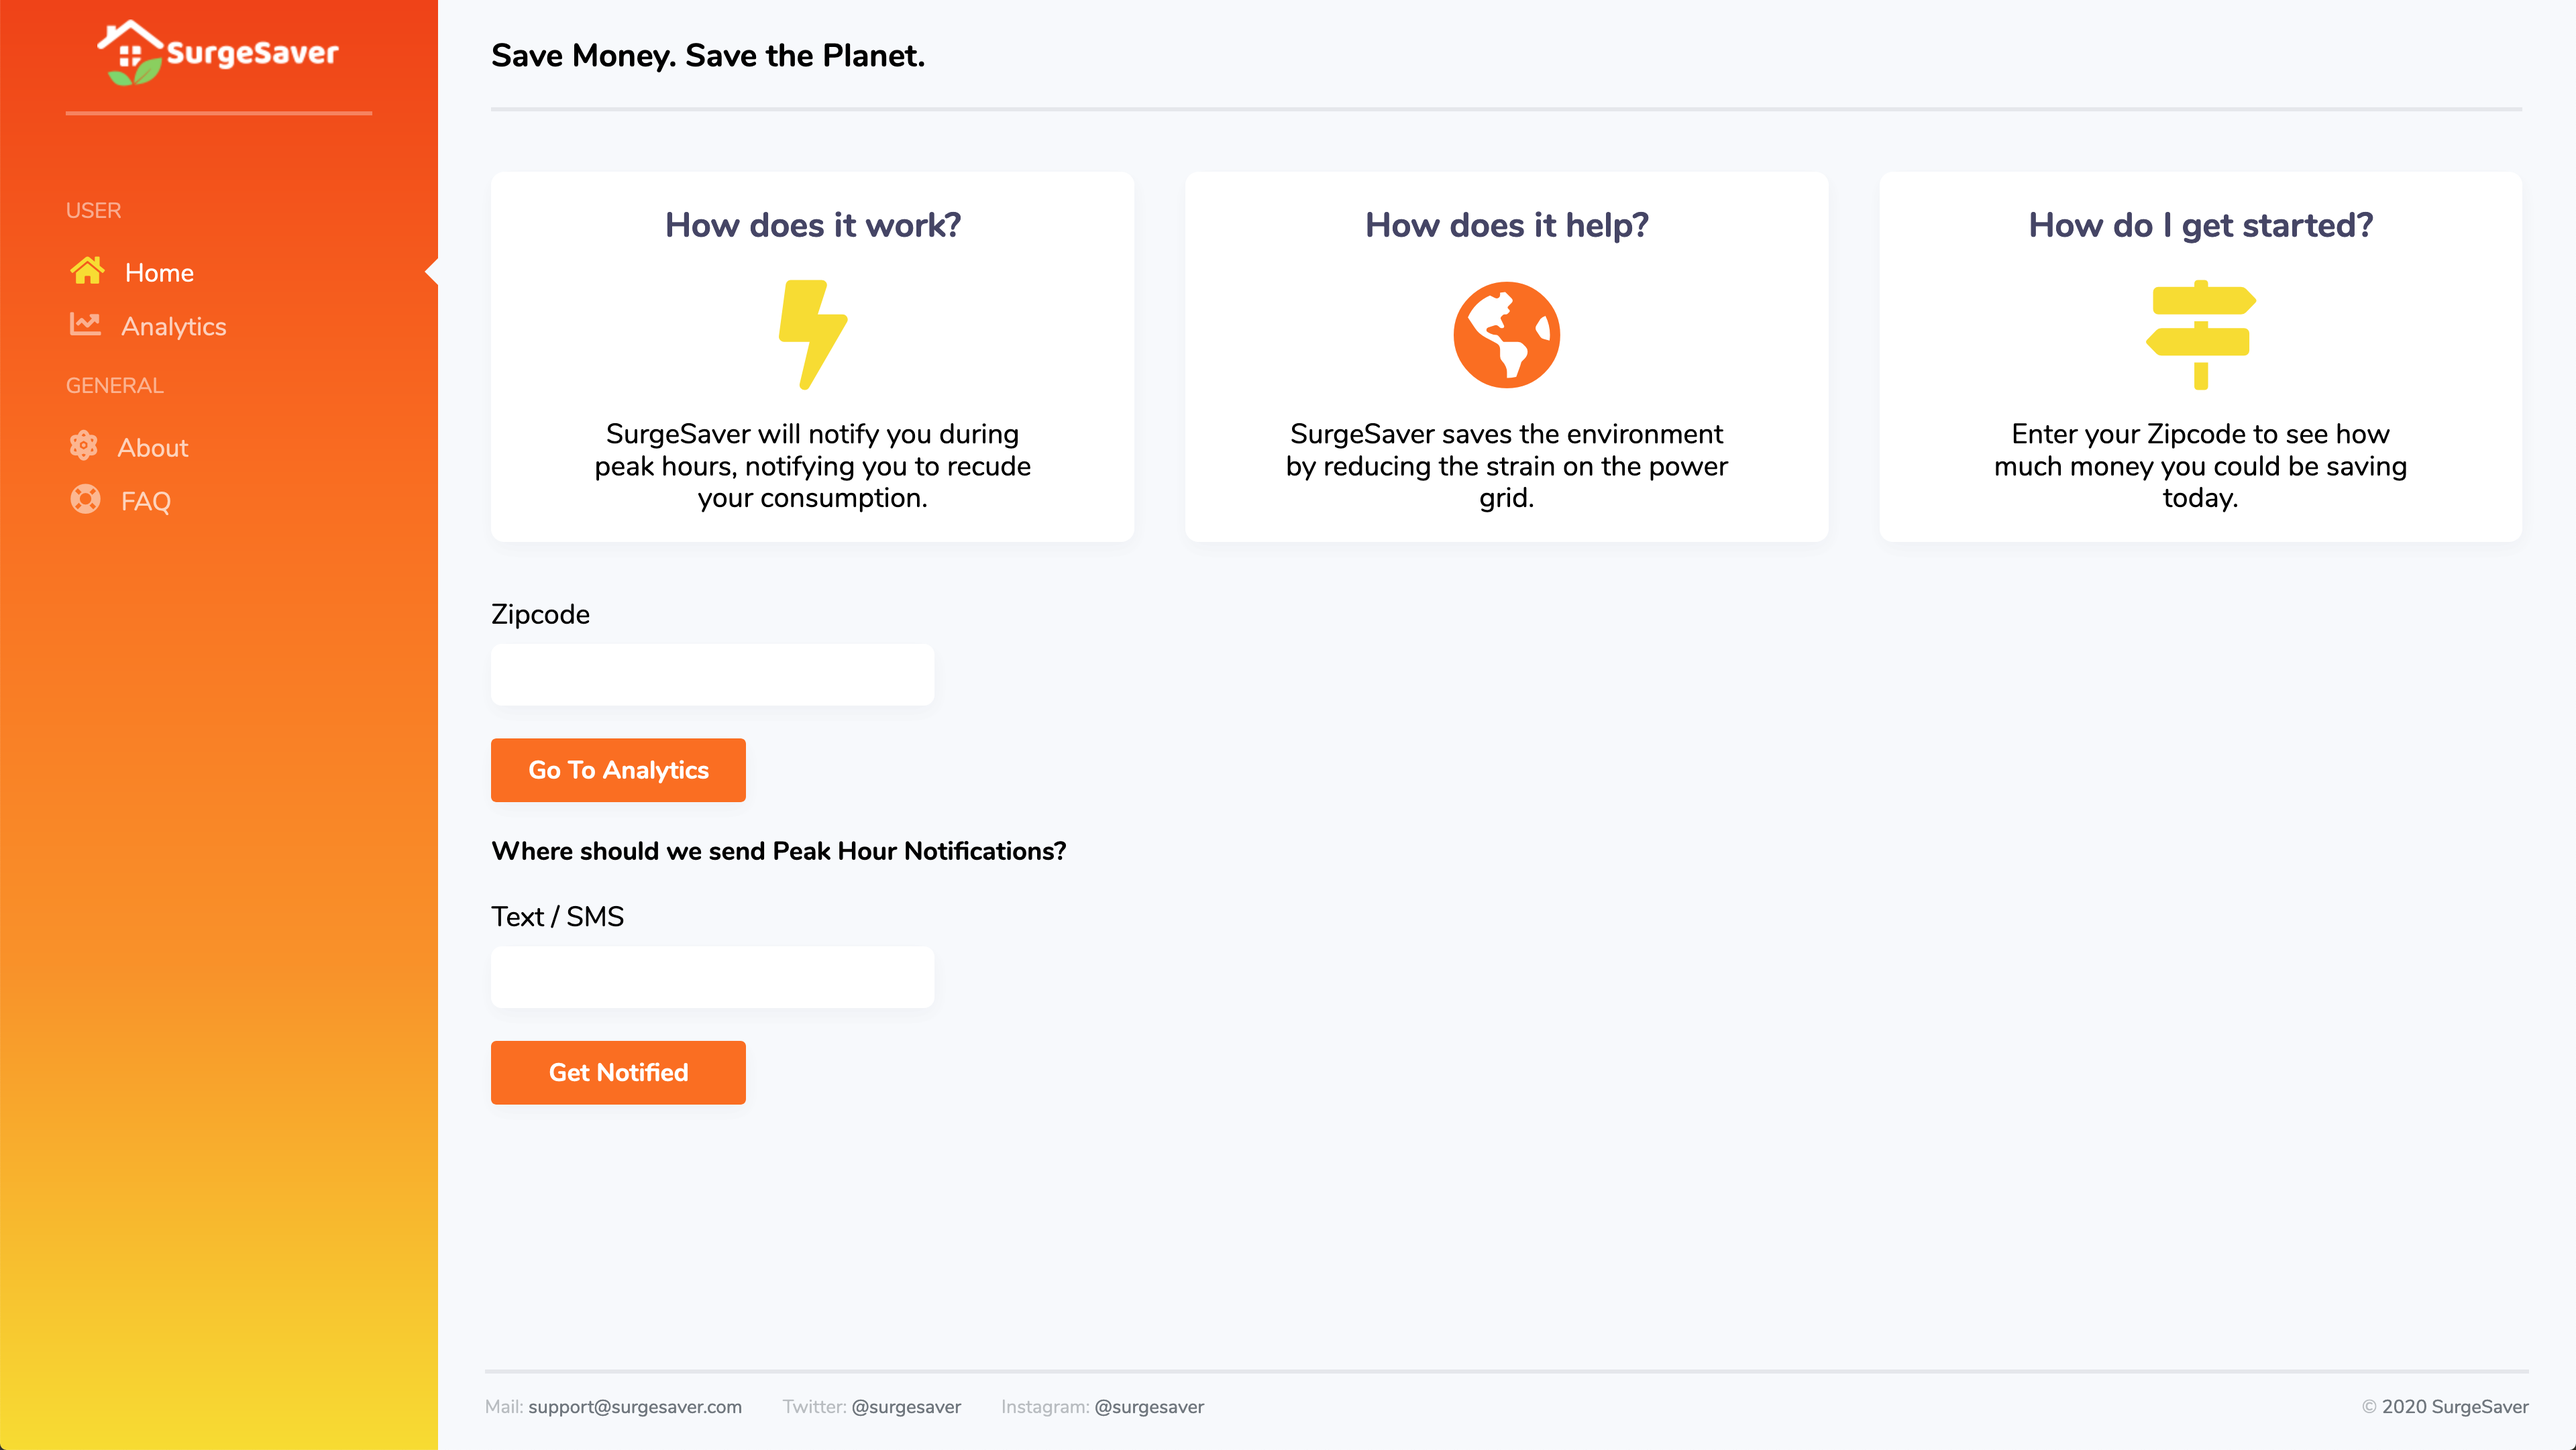
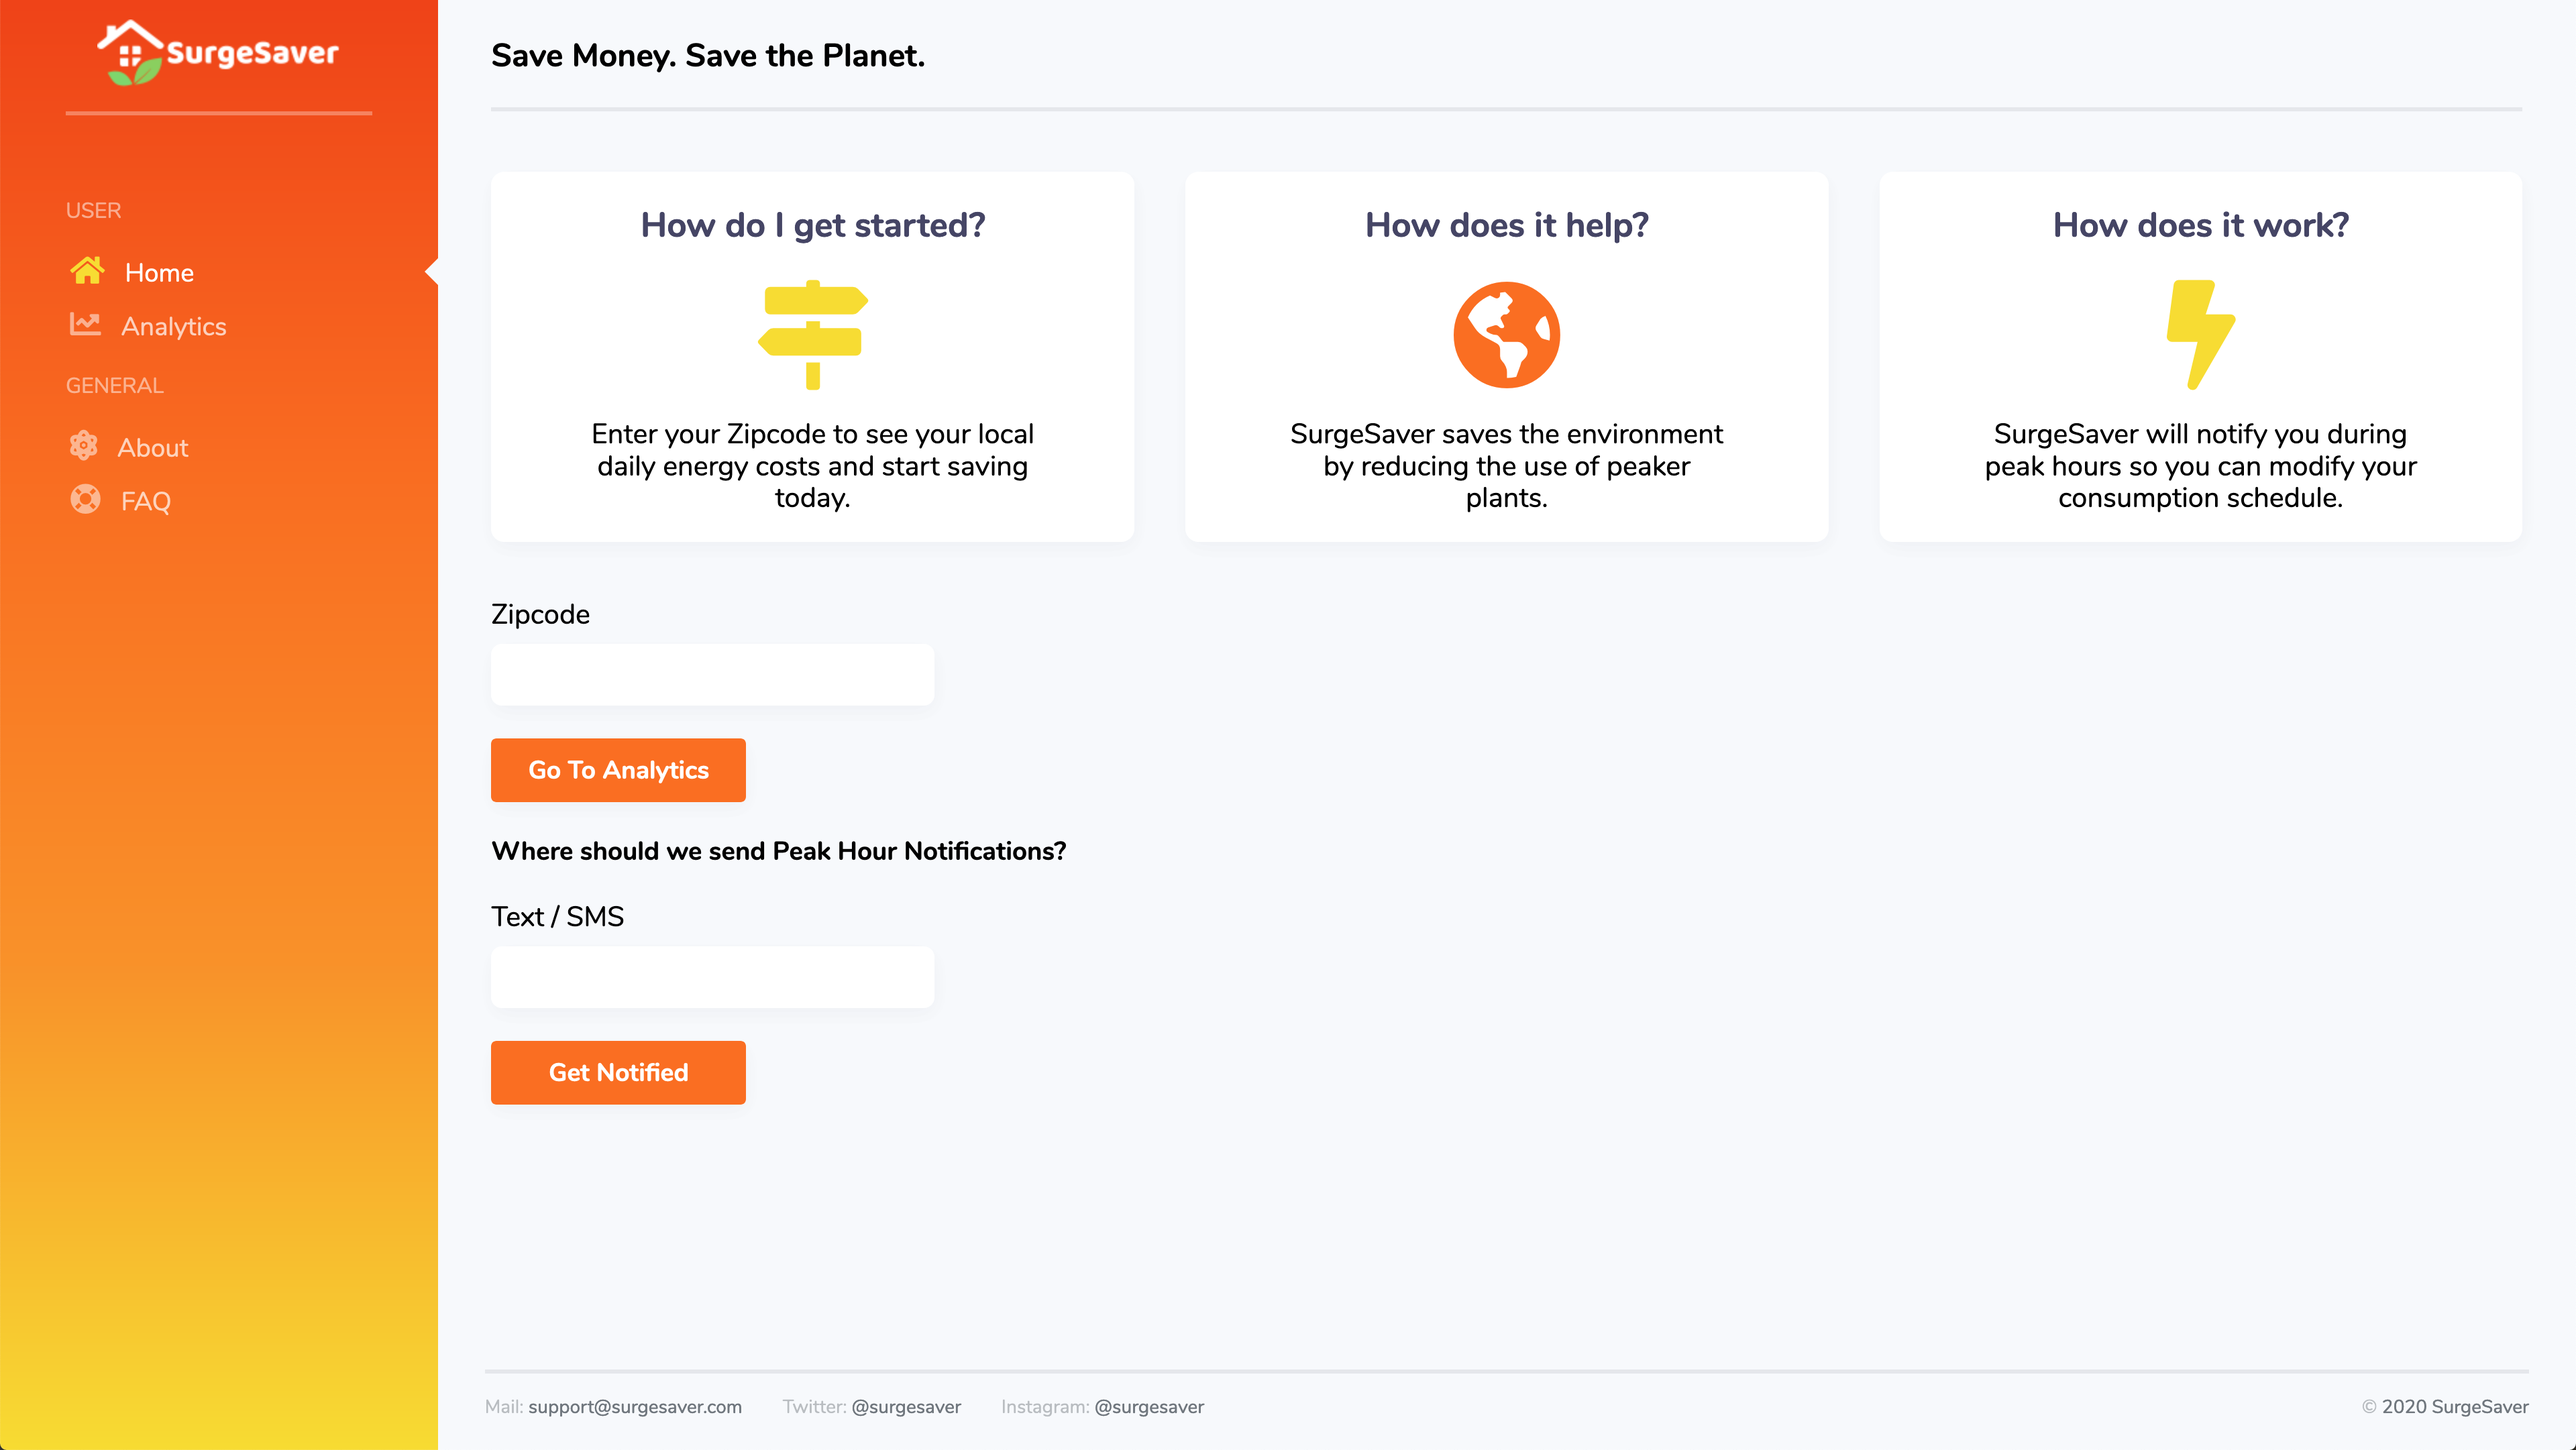
Finished About and FAQ Pages

diff --git a/web/index.html b/web/index.html
@@ -108,7 +108,7 @@
 						v-if="mobileMenuOpen"
 						@click="toggleMobileMenu()"
 					></i>
-					<div class="logoContainer">
+					<div class="logoContainer" @click='changePage("Home")'>
 						<img class="logo" src="logo.png" />
 					</div>
 					<i class="logoSideMenu"></i>
@@ -236,12 +236,114 @@
 						<h1>About</h1>
 					</div>
 					<div class="underTitle onlyDesktop"></div>
+					<div class="aboutContent">
+						<h3>What are Peak Hours?</h3>
+						<p>
+							Consumer demand for electricity varies greatly throughout the day,
+							and utilities respond by price gouging during peak hours to
+							disincentivize use. “Regular” peak hours occur at predictable
+							times and follow daily, weekly, and seasonal trends, while
+							“critical” peak hours occur during rare events such as summer heat
+							waves. When price gouging is unsuccessful at lowering demand,
+							utilities contribute extra capacity with “peaker” plants: small
+							and inefficient natural gas plants that generate among the
+							nation’s worst pollution. In especially rare peak hours, peaker
+							plants alone cannot meet demand and consumers are faced with
+							brownouts.
+						</p>
+						<p>
+							Most consumers aren’t aware of the hours when they should reduce
+							consumption and end up paying over 10x as much per kWh to run
+							everyday appliances during peak hours. With our application, users
+							will be notified when surge pricing is likely to occur in order to
+							save money and save the planet.
+						</p>
+						<h3>How Does it Work?</h3>
+						<p>
+							SurgeSaver tracks live and Day-Ahead Locational Marginal Pricing
+							(LMP) across over 20 utilities in the Midwest and Mid Atlantic
+							that fall within the PJM transmission zone. We establish a price
+							threshold for delivering notifications, and alert users when price
+							gouging is likely to occur within the next 24 hours. In our
+							Analytics page, we display informative visualizations of price
+							trends.
+						</p>
+						<p>A dynamic response to price gouging could include:</p>
+						<ul>
+							<li>
+								Advancing and/or delaying the use of heavy appliances such as
+								water heaters and air conditioners, many of which are
+								programmable from a mobile phone or other remote source.
+							</li>
+							<li>
+								Drawing electricity usage from a battery unit during peak hours.
+							</li>
+							<li>
+								Deploying battery capacity onto the grid during peak hours to
+								sell unused electricity at high rates.
+							</li>
+						</ul>
+						<h3>How does it help?</h3>
+						<p>
+							Smoothing electricity consumption provides many financial and
+							environmental benefits. As long as aggregate electricity demand
+							follows a non-uniform distribution, savings can be accrued by
+							navigating consumption towards off-peak hours where electricity is
+							less expensive. Doing so allows utilities to reduce usage of dirty
+							peaker plants and maintain cleaner air. This also eliminates wear
+							and tear on the electrical grid, minimizing maintenance and
+							voltage regulation costs, thus pushing your utility bill even
+							lower!
+						</p>
+						<p>
+							Often regarded as the primary pitfall of renewable energy is its
+							fluctuating supply that can cause frequent and unpredictable power
+							outages if representing a large proportion of a grid’s energy
+							portfolio. This is because renewable sources are dependent on
+							specific weather conditions and it’s generation plummets on cloudy
+							and non-windy days. In order to feasibly increase the supply of
+							renewables, consumers must match their demand with its inherently
+							variable supply in a dynamic manner such as responsive consumption
+							and battery storage. Many states across the nation have imposed
+							aggressive renewable energy goals. Sign up now to do your part in
+							making renewable energy feasible!
+						</p>
+					</div>
 				</div>
 				<div class="surgePageContent" id="FAQ" v-if='currentPage==="FAQ"'>
 					<div class="title">
 						<h1>FAQ</h1>
 					</div>
 					<div class="underTitle onlyDesktop"></div>
+					<div class="aboutContent">
+						<h3>How does the text alert service work?</h3>
+						<p>After you enter your zip code, you will be given the opportunity to enter your number to receive text alerts. We partner
+						with Twilio to send out these alerts whenever we detect peak energy usage. You will receive an SMS text 3 hours in
+						advance in order to provide adequate time to adjust your consumption schedule.</p>
+						<h3>How do we determine peak-hours?</h3>
+						<p>Based on historical and forecasted data, we determine exactly when the highest prices would occur during the day. We
+						then notify you via text alerts at least three hours in advance so that you can make the necessary adjustments.</p>
+						<h3>What do I do when I get a notification?</h3>
+						<p>As soon as you get a notification, you should begin to modify your energy use. Consider delaying when you use heating or
+						cooling systems until after the peak period has ended.</p>
+						<h3>What is price gouging?</h3>
+						<p>Price Gouging occurs when a seller increases the prices of goods or services to a level that is much higher than what
+						would be considered reasonable or fair. In this context, many energy suppliers will spike their prices in response to a
+						sudden demand shock.</p>
+						<h3>How often do you update your forecasts?</h3>
+						<p>We use real-time data to update our models and analytics. If there is a change in your predicted peak-hours, you will
+						see the change reflected almost immediately.</p>
+						<h3>What is the difference between the two graphs on the analytics page?</h3>
+						<p>The first graph provides a forecasted model for peak pricing today whereas the second graph shows you the historical
+						average pricing for a month of your choosing, allowing you to compare today’s pricing to historical trends.</p>
+						<h3>What is LMP?</h3>
+						<p>Locational Marginal Pricing (LMP) reflects the value of electricity at different locations, and is the price at which
+						electricity is traded in the wholesale market. LMP is relevant for large consumers that purchase electricity wholesale
+						as well as for residents and businesses purchasing directly from their local utility. This is because utility rates,
+						which comprise the retail market, are derived from the underlying wholesale market activity. LMP is calculated as the
+						price of an increment of electricity after accounting for the congestion and transmission losses of delivering that
+						electricity.</p>
+					</div>
 				</div>
 
 				<div class="footer">

diff --git a/web/index.js b/web/index.js
@@ -5,7 +5,7 @@ var V = {
 			title: "How do I get started?",
 			icon: "fa-map-signs",
 			content:
-				"Enter your Zipcode to see how much money you could be saving today.",
+				"Enter your Zipcode to see your local daily energy costs and start saving today.",
 			click: function() {
 				document.getElementById("zI").focus();
 			}
@@ -15,7 +15,7 @@ var V = {
 			title: "How does it help?",
 			icon: "fa-globe-americas",
 			content:
-				"SurgeSaver saves the environment by reducing the strain on the power grid.",
+				"SurgeSaver saves the environment by reducing the use of peaker plants.",
 			click: function() {
 				V.currentPage = "FAQ";
 			}
@@ -24,7 +24,7 @@ var V = {
 			title: "How does it work?",
 			icon: "fa-bolt",
 			content:
-				"SurgeSaver will notify you during peak hours, notifying you to recude your consumption.",
+				"SurgeSaver will notify you during peak hours so you can modify your consumption schedule.",
 			click: function() {
 				V.currentPage = "About";
 			}

diff --git a/web/index.css b/web/index.css
@@ -703,4 +703,28 @@ input:hover:focus {
   font-family: "Nunito-Bold", "Nunito", sans-serif !important;
 }
 
+.aboutContent {
+  max-width: 70vw;
+  height: 80vh;
+  overflow-y: scroll;
+}
+@media screen and (max-width: 1024px) {
+  .aboutContent {
+    max-width: 90vw;
+  }
+}
+@media screen and (max-width: 768px) {
+  .aboutContent {
+    width: 100%;
+    height: auto;
+    overflow-y: none;
+  }
+}
+.aboutContent p {
+  font-size: 1.1em;
+}
+.aboutContent ul li {
+  font-size: 1.1em;
+}
+
 /*# sourceMappingURL=index.css.map */

diff --git a/web/index.sass b/web/index.sass
@@ -488,3 +488,19 @@ input
     border-top: 1px solid rgba(200, 200, 200) !important
     p
         font-family: $bold !important
+
+.aboutContent
+    max-width: 70vw
+    height: 80vh
+    overflow-y: scroll
+    @media screen and (max-width: $lg)
+        max-width: 90vw
+    @media screen and (max-width: $md)
+        width: 100%
+        height: auto
+        overflow-y: none
+    p
+        font-size: 1.1em
+    ul
+        li
+            font-size: 1.1em
